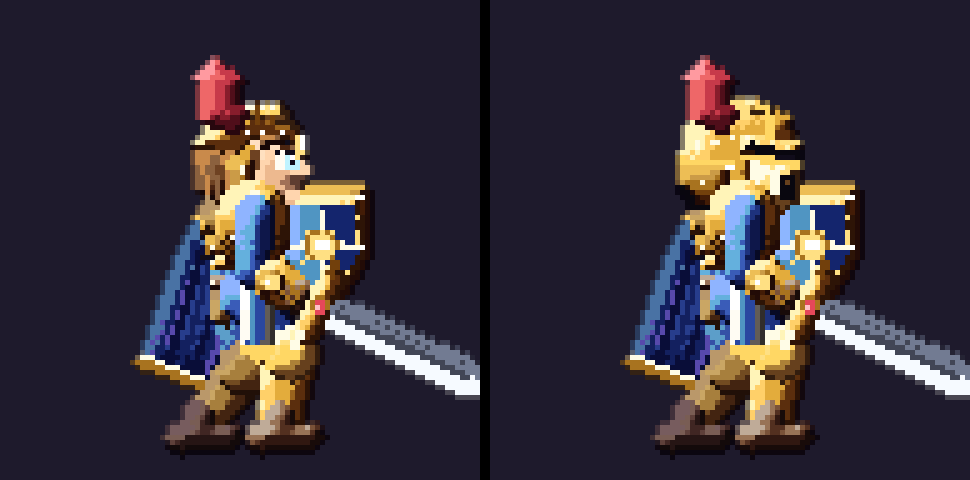
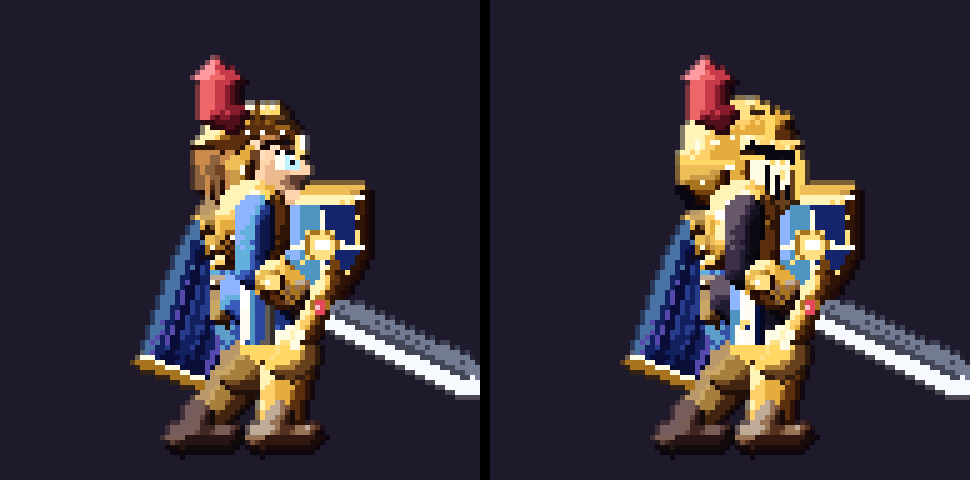
Paladin 96x96: yelmo cerrado y armadura segun referencia (prototipo aislado)
Claude-Session: https://claude.ai/code/session_011eeWNo3MRZcztybaatA5Az

Changed region(s): [[0.7113, 0.3125, 0.8351, 0.7188]]

diff --git a/tools/art_players/exp96_paladin_v4.py b/tools/art_players/exp96_paladin_v4.py
@@ -86,11 +86,13 @@ class Paladin96(cls_paladin.Paladin):
             circ(X, tp(X, [(u, 1.8)])[0], 0.2 * k, 'goldL', tone=5)
         poly(X, tp(X, [(-2.8, 1.0), (-0.6, 1.0), (-0.8, -2.6), (-2.6, -2.0)]), 'gold_b', dome=1.4)
         # pierna delantera
-        leg(X, sk.hipF, sk.kneeF, sk.ankF, 2.4, 1.9, 1.6, 'under', 'leather', p.ffa, kneepad='goldL', greave='gold')
+        leg(X, sk.hipF, sk.kneeF, sk.ankF, 2.4, 1.9, 1.6, 'dark', 'leather', p.ffa, kneepad='goldL', greave='gold')
         # tabardo con banda azul, ribete y pliegue
-        poly(X, tp(X, [(0.2, 1.5), (2.9, 1.5), (3.4, -1), (3.2, -4.8), (1.7, -5.8), (0.4, -4.8), (0.0, -1)]), 'cloth', dome=2.0)
-        poly(X, tp(X, [(0.9, 1.0), (2.3, 1.0), (2.2, -4.6), (1.5, -5.2), (0.9, -4.6)]), 'blue', tone=3)
-        poly(X, tp(X, [(1.1, 1.0), (1.45, 1.0), (1.4, -4.4), (1.1, -4.4)]), 'blue', tone=4)
+        poly(X, tp(X, [(0.2, 1.5), (2.9, 1.5), (3.4, -1), (3.2, -4.8), (1.7, -5.8), (0.4, -4.8), (0.0, -1)]), 'blue', dome=2.0)
+        poly(X, tp(X, [(0.9, 1.0), (2.3, 1.0), (2.2, -4.6), (1.5, -5.2), (0.9, -4.6)]), 'cloth', tone=4)
+        poly(X, tp(X, [(1.1, 1.0), (1.45, 1.0), (1.4, -4.4), (1.1, -4.4)]), 'cloth', tone=5)
+        circ(X, tp(X, [(1.6, -2.2)])[0], 0.55 * k, 'goldL', tone=4)
+        circ(X, tp(X, [(1.6, -2.2)])[0], 0.25 * k, 'blue', tone=2)
         poly(X, tp(X, [(0.2, -4.0), (3.3, -4.0), (3.1, -4.9), (1.7, -5.8), (0.4, -4.9)]), 'goldL', tone=3)
         poly(X, tp(X, [(0.5, -4.1), (3.1, -4.1), (3.1, -4.25), (0.5, -4.25)]), 'goldD', tone=2)
         # gorjal en anillos
@@ -116,8 +118,10 @@ class Paladin96(cls_paladin.Paladin):
         poly(X, hp(X, [(2.6, 5.2), (3.5, 4.3), (3.2, 2.2), (2.3, 2.6)]), 'goldL', tone=3)                                                    # nervio frontal
         poly(X, hp(X, [(1.4, 0.2), (5.6, -0.2), (5.7, -3.4), (4.6, -4.4), (1.8, -4.5), (0.8, -3.0)]), 'goldL', dome=2.4)                       # barbote (mentón)
         poly(X, hp(X, [(3.3, -0.6), (3.9, -0.7), (3.9, -3.7), (3.3, -3.6)]), 'goldL', tone=5)                                                # arista vertical del barbote
-        for u in (4.3, 4.9):                                                                                                                 # ventilas
-            poly(X, hp(X, [(u, -0.9), (u + 0.32, -0.9), (u + 0.32, -3.2), (u, -3.2)]), 'ink', tone=1)
+        for u in (2.7, 3.7, 4.7):                                                                                                            # rejilla vertical de la visera
+            poly(X, hp(X, [(u, 0.9), (u + 0.38, 0.9), (u + 0.38, -3.4), (u, -3.4)]), 'ink', tone=1)
+            poly(X, hp(X, [(u - 0.28, 0.5), (u, 0.5), (u, -3.2), (u - 0.28, -3.2)]), 'goldL', tone=5)
+        poly(X, hp(X, [(5.6, 1.6), (6.4, 0.0), (6.1, -2.4), (5.6, -3.2)]), 'goldL', tone=3)                                                  # proa de la visera (perfil puntiagudo)
         poly(X, hp(X, [(1.4, -3.9), (4.8, -4.3), (4.7, -4.6), (1.4, -4.2)]), 'goldD', tone=1)                                                # sombra del gorjal
         poly(X, hp(X, [(0.6, 0.0), (1.2, 0.0), (1.4, -3.8), (0.7, -3.6)]), 'goldD', tone=1)                                                  # junta mejilla
         for (u, v) in ((-3.8, 1.6), (-2.2, 2.0), (-0.6, 2.4), (1.0, 2.6), (-3.2, -1.8), (-1.6, -2.6)):                                        # remaches
@@ -129,12 +133,17 @@ class Paladin96(cls_paladin.Paladin):
         # hombrera de tres laminas con remaches
         for dy, r, m in ((1.9, 3.5, 'goldD'), (1.0, 3.4, 'gold'), (0.1, 3.3, 'gold')):
             circ(X, (sk.shF[0] - 0.2 * (dy > 0), sk.shF[1] + dy), r * k, m, dome=2.6)
+        circ(X, (sk.shF[0] + 0.1, sk.shF[1] + 2.9), 3.2 * k, 'goldD', dome=2.4)
+        circ(X, (sk.shF[0] + 0.1, sk.shF[1] + 2.5), 3.0 * k, 'gold', dome=2.4)
         circ(X, (sk.shF[0] + 0.4, sk.shF[1] - 0.7), 1.7 * k, 'goldL', dome=1.6)
+        for ang in (200, 235, 270):
+            q = (sk.shF[0] + math.cos(math.radians(ang)) * 2.4 * k, sk.shF[1] + 0.9 + math.sin(math.radians(ang)) * 2.4 * k)
+            circ(X, q, 0.45 * k, 'cloth', tone=5)
         circ(X, (sk.shF[0] + 0.8, sk.shF[1] - 1.1), 0.5 * k, 'cloth', tone=5)
         for dy in (1.8, 0.9):
             circ(X, (sk.shF[0] - 1.9, sk.shF[1] + dy + 0.5), 0.26 * k, 'goldL', tone=5)
         # brazo delantero: manga, brazal con bandas, guantelete con nudillos
-        arm(X, sk.shF, sk.elbF, sk.handF, 1.85, 1.6, 1.4, 'under', glove='leather', bracer='gold', hand_r=1.6)
+        arm(X, sk.shF, sk.elbF, sk.handF, 1.85, 1.6, 1.4, 'dark', glove='leather', bracer='gold', hand_r=1.6)
         e, h = sk.elbF, sk.handF
         for t in (0.58, 0.72, 0.86):
             q = (e[0] * (1 - t) + h[0] * t, e[1] * (1 - t) + h[1] * t)

diff --git a/tools/experimental/paladin96/LEEME.md b/tools/experimental/paladin96/LEEME.md
@@ -23,3 +23,10 @@
 - Casco completamente cerrado: bóveda con cresta, ceja y banda de visera, ranura de ojos oscura, barbote con arista y ventilas, remaches, joya lateral, pluma carmesí. No se ve piel, ojos, nariz, boca ni pelo.
 - Comparación: `comparacion_joven_izq_cerrado_der.png` (idle).
 - Pendiente: el resto de la armadura (peto, hombreras, brazales, rodilleras) sigue como en v3; falta elaborarla. Las animaciones funcionales y el sprite del juego no se tocan.
+
+## Versión yelmo cerrado (v4)
+- Generador: `tools/art_players/exp96_paladin_v4.py` -> `paladin96_cerrado_sheet.png/.json` (idle, run, attack1, roll).
+- Yelmo totalmente cerrado: bóveda con cresta, ranura de ojos oscura, rejilla vertical de visera, proa puntiaguda, remaches y joya lateral; no se ve piel, ojos ni pelo. Pluma carmesí conservada.
+- Guiado por la imagen de referencia del usuario: capa interior oscura en brazo y pierna (separa las placas), tabardo azul con panel blanco y estrella, hombrera de cuatro láminas con remaches.
+- Comparación: `comparacion_joven_izq_cerrado_der.png` (idle).
+- Sin cambios: sprite del juego, otras clases, animaciones funcionales, paleta.
